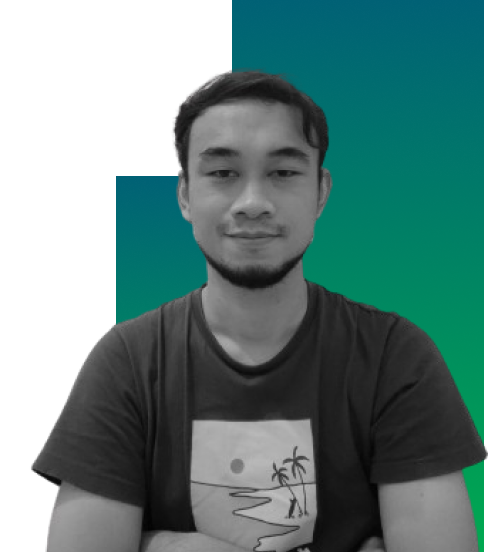
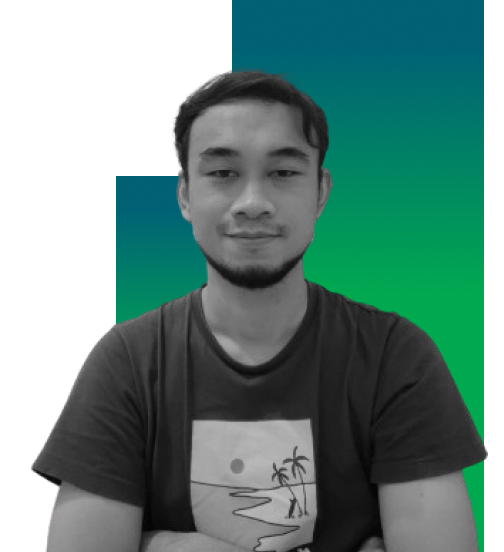
fix img

Changed region(s): [[0.5952, 0.4312, 0.9821, 0.6775]]

diff --git a/src/container/homepage/about/index.tsx b/src/container/homepage/about/index.tsx
@@ -35,7 +35,7 @@ export default function About() {
             style={{ width: "100%", display: "flex", justifyContent: "center" }}
           >
             <Tilt>
-              <Image src="/image/me.png" width="220" height="230" alt="" />
+              <img src="/image/me.png" width="220" height="230" alt="" />
             </Tilt>
           </Col>
           <Col>
@@ -84,7 +84,7 @@ export default function About() {
             data-aos-delay="500"
           >
             <Tilt>
-              <Image src="/image/me.png" width="330" height="340" alt="" />
+              <img src="/image/me.png" width="330" height="340" alt="" />
             </Tilt>
           </Col>
           <Col
@@ -95,7 +95,7 @@ export default function About() {
               width: 250,
               fontSize: "18px",
               paddingRight:"13%",
-              paddingTop:"18%",
+              paddingTop:"15%",
               color:"grey"
             }}
             data-aos="fade-up-right"
